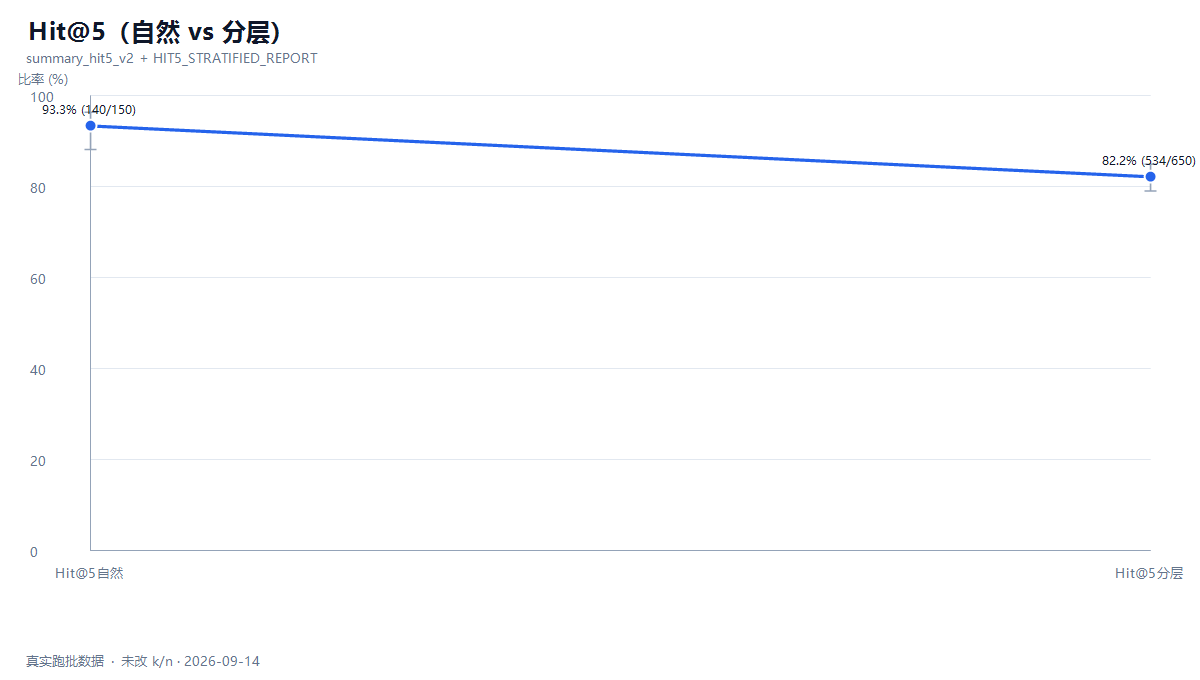
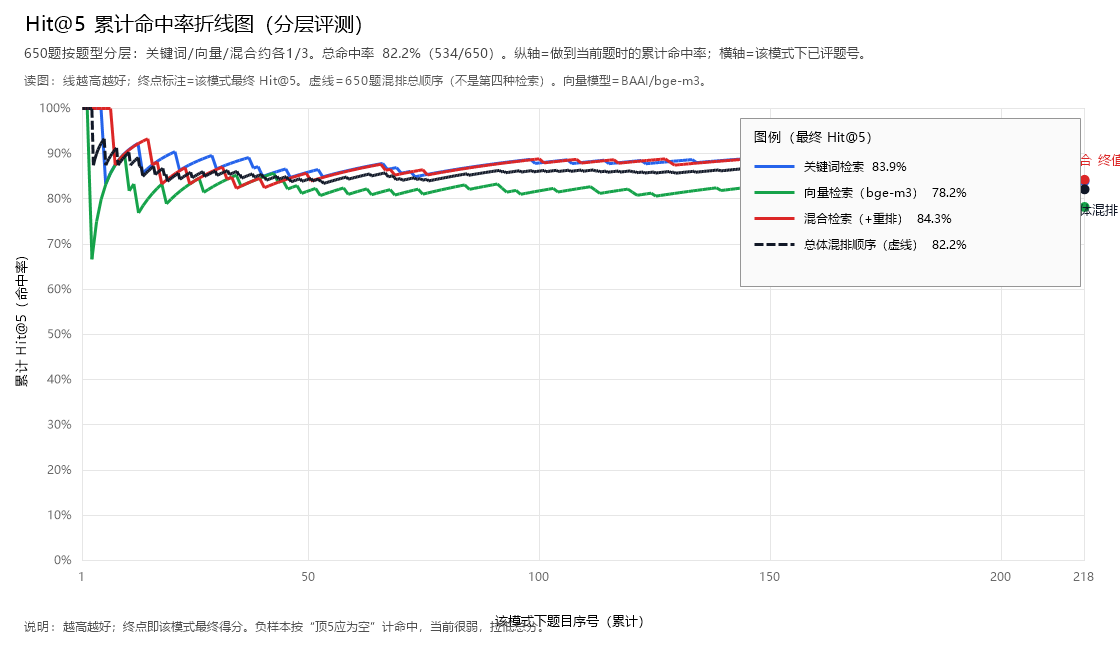
fix: replace Hit@5 chart with supplied stratified evaluation

diff --git a/src/evaluation-charts.js b/src/evaluation-charts.js
@@ -5,7 +5,7 @@ export const evaluationCharts = [
     "note": "各项来自不同样本集，不能理解为时间趋势；回答项为草稿自动规则判分，场景项为接口与路由检查，恢复项未实际重启服务。"
   },
   {
-    "src": "/showcase/metrics/hit5.png",
+    "src": "/showcase/metrics/hit5.png?v=20260914-stratified",
     "title": "Hit@5 检索命中",
     "note": "自然题 140/150，分层题 534/650。管理员按知识空间检索后合并结果，以金标文档是否出现在 Top 5 中判定。"
   },
